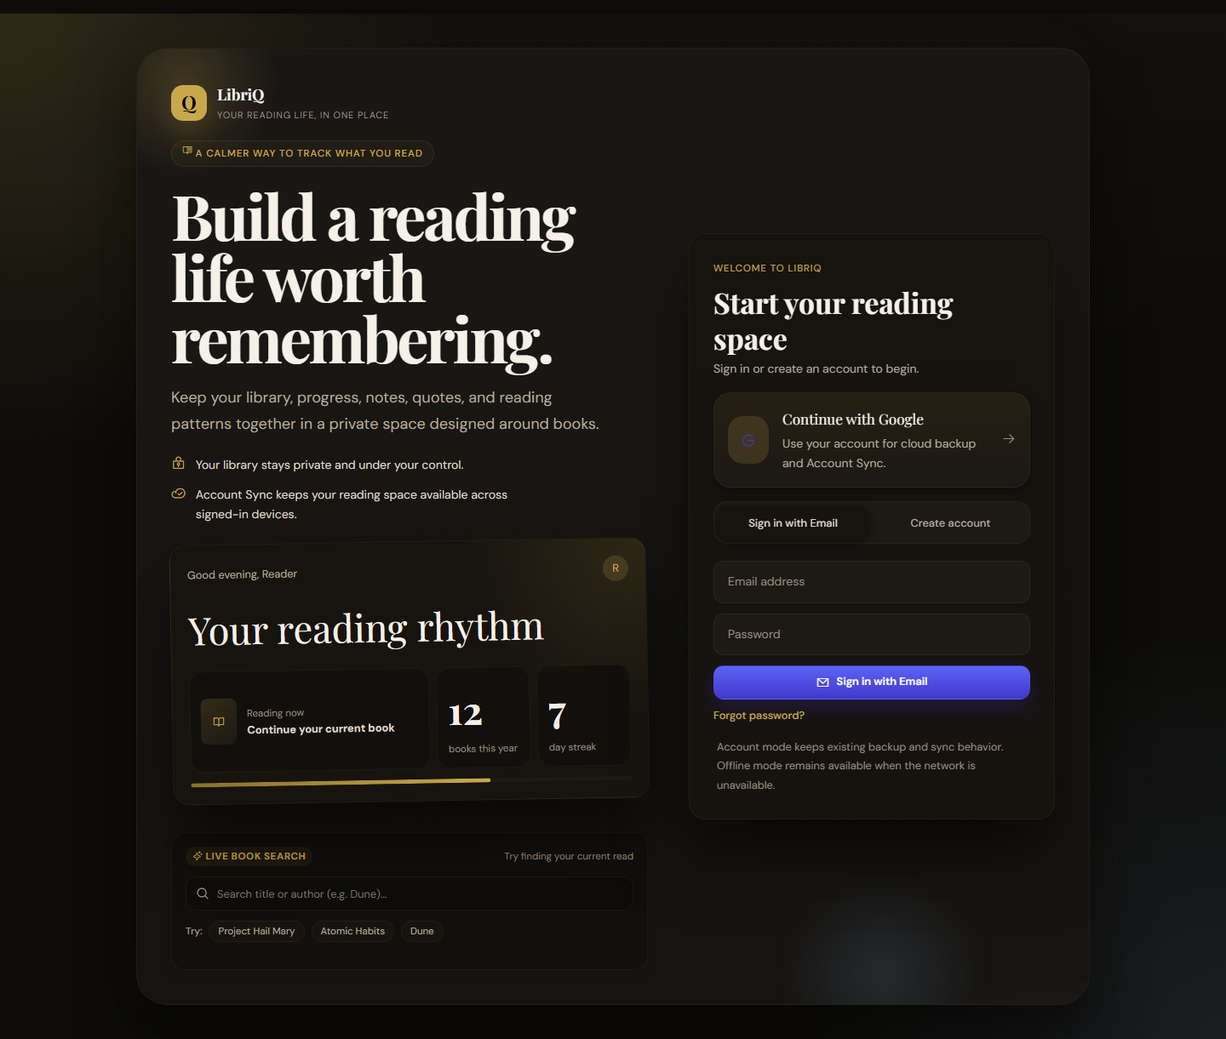
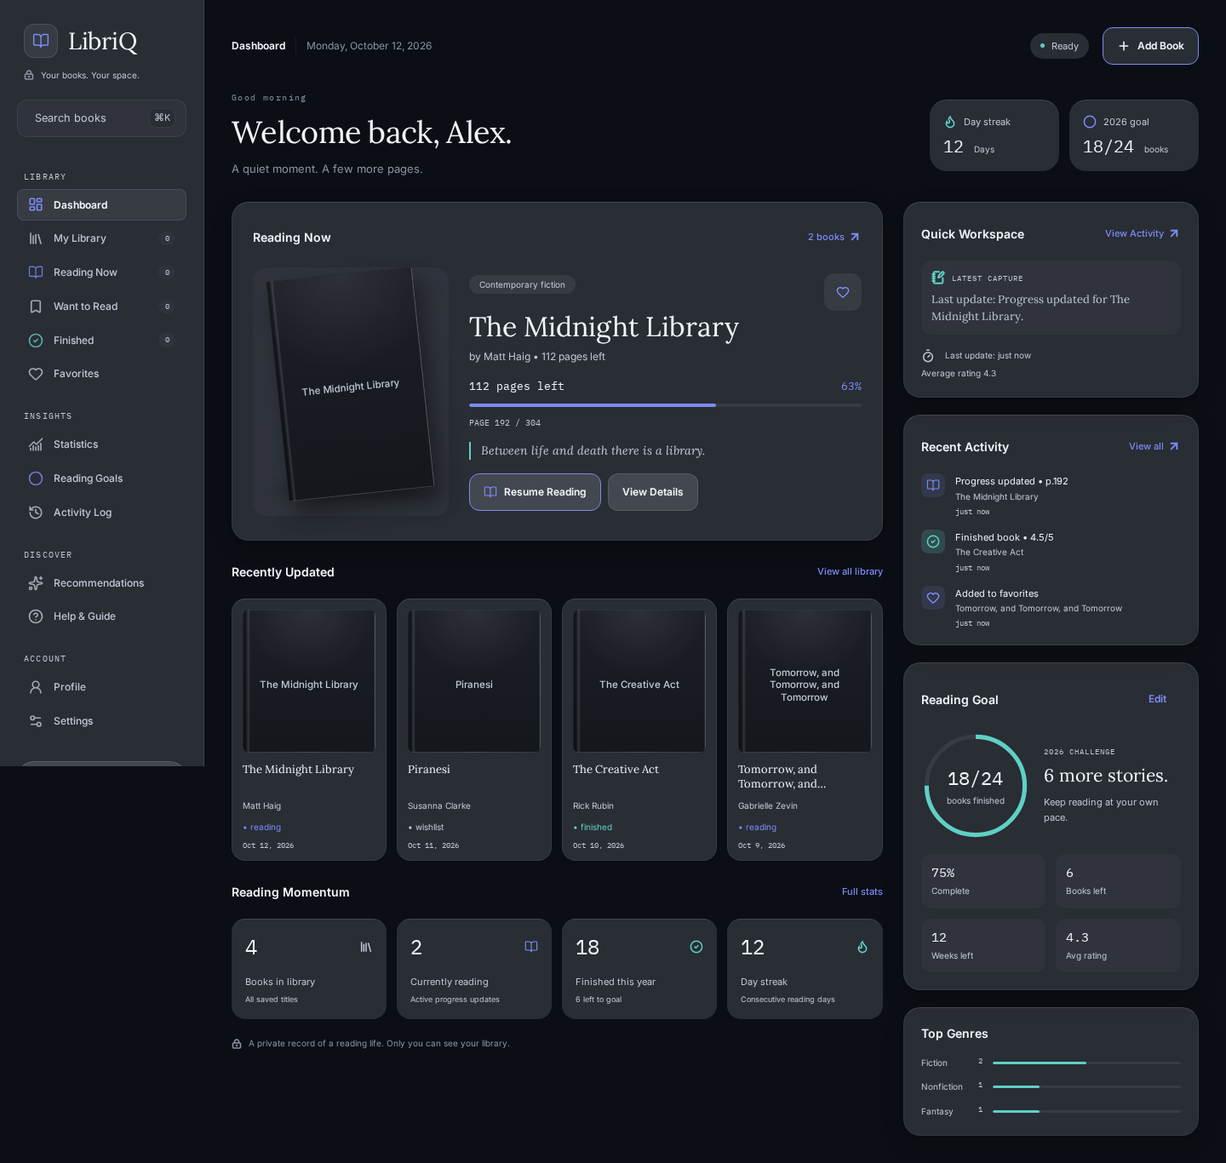
Preserve shared layouts and verify Dashboard accessibility

diff --git a/frontend/css/features/dashboard.css b/frontend/css/features/dashboard.css
@@ -19,13 +19,27 @@
 .dashboard-actions { gap: 16px; }
 .dashboard-sync { gap: 8px; padding: 6px 12px; border-radius: var(--radius-full); background: var(--glass-fill-3); font-size: 11px; }
 .dashboard-sync-dot { width: 5px; height: 5px; background: var(--teal); border-radius: 50%; }
-.dashboard-page .btn { min-height: 44px; border-radius: 12px; padding: 10px 16px; font-size: 12px; font-weight: 600; box-shadow: none; }
-.dashboard-page .btn-primary { background: var(--glass-fill-3); border: 1px solid var(--indigo); color: var(--text-strong); }
-.dashboard-page .btn-primary:hover { background: var(--indigo-18); }
-.dashboard-page .btn-secondary { background: var(--glass-fill-3); border: 1px solid var(--glass-highlight); color: var(--text-strong); }
-.dashboard-page .btn-ghost { color: var(--indigo); }
+#dashboardPage .btn { min-height: 44px; border-radius: 12px; padding: 10px 16px; font-size: 12px; font-weight: 600; box-shadow: none; }
+#dashboardPage .btn-primary { background: var(--glass-fill-3); border: 1px solid var(--indigo); color: var(--text-strong); }
+#dashboardPage .btn-primary:hover { background: var(--indigo-18); }
+#dashboardPage .btn-secondary { background: var(--glass-fill-3); border: 1px solid var(--glass-highlight); color: var(--text-strong); }
+#dashboardPage .btn-ghost { color: var(--indigo); }
 .dashboard-page button:focus-visible { outline: 2px solid var(--indigo); outline-offset: 3px; }
-.dashboard-icon { width: 16px; height: 16px; flex-shrink: 0; object-fit: contain; }
+.dashboard-icon { display: inline-block; width: 16px; height: 16px; flex-shrink: 0; background: currentColor; -webkit-mask: var(--dashboard-icon) center / contain no-repeat; mask: var(--dashboard-icon) center / contain no-repeat; }
+.dashboard-icon[data-icon="plus"] { --dashboard-icon: url('../../assets/dashboard/desktop-plus.svg'); }
+.dashboard-icon[data-icon="arrow-up-right"] { --dashboard-icon: url('../../assets/dashboard/desktop-arrow-up-right.svg'); }
+.dashboard-icon[data-icon="book-open"] { --dashboard-icon: url('../../assets/dashboard/desktop-book-open.svg'); }
+.dashboard-icon[data-icon="circle-check"] { --dashboard-icon: url('../../assets/dashboard/desktop-circle-check.svg'); }
+.dashboard-icon[data-icon="flame"] { --dashboard-icon: url('../../assets/dashboard/desktop-flame.svg'); }
+.dashboard-icon[data-icon="heart"] { --dashboard-icon: url('../../assets/dashboard/desktop-heart.svg'); }
+.dashboard-icon[data-icon="library"] { --dashboard-icon: url('../../assets/dashboard/desktop-library.svg'); }
+.dashboard-icon[data-icon="lock-keyhole"] { --dashboard-icon: url('../../assets/dashboard/desktop-lock-keyhole.svg'); }
+.dashboard-icon[data-icon="notebook-pen"] { --dashboard-icon: url('../../assets/dashboard/desktop-notebook-pen.svg'); }
+.dashboard-icon[data-icon="target"] { --dashboard-icon: url('../../assets/dashboard/desktop-target.svg'); }
+.dashboard-icon[data-icon="timer"] { --dashboard-icon: url('../../assets/dashboard/desktop-timer.svg'); }
+.dashboard-icon[data-icon="bookmark"] { --dashboard-icon: url('../../assets/dashboard/desktop-bookmark.svg'); }
+.dashboard-icon[data-icon="book-open"], .dashboard-icon[data-icon="target"], .dashboard-icon[data-icon="heart"] { color: var(--indigo); }
+.dashboard-icon[data-icon="flame"], .dashboard-icon[data-icon="circle-check"], .dashboard-icon[data-icon="notebook-pen"] { color: var(--teal); }
 .dashboard-hero-shell { justify-content: space-between; gap: 24px; margin-bottom: 28px; }
 .greeting-label { display: block; color: var(--text-muted); font: 10px var(--font-mono); letter-spacing: 1.4px; margin-bottom: 12px; }
 .greeting-title { margin: 0; font: 400 36px/1.25 var(--font-serif); letter-spacing: -0.7px; color: var(--text-strong); overflow-wrap: anywhere; }
@@ -73,6 +87,7 @@
 .dashboard-hero-quote { margin: 0 0 16px; padding-left: 12px; border-left: 2px solid var(--teal); color: var(--text-body); font: italic 14px/1.5 var(--font-serif); overflow-wrap: anywhere; }
 .dashboard-hero-actions { gap: 8px; flex-wrap: wrap; }
 .dashboard-hero-actions [data-action="toggle-favorite"] { position: absolute; right: 0; top: 0; padding: 8px; min-height: 32px; width: 32px; background: var(--glass-fill-2); border-radius: 8px; }
+.dashboard-hero-actions [data-action="toggle-favorite"][aria-pressed="true"] { background: var(--indigo-18); }
 .dashboard-empty-cover { border: 1px dashed var(--glass-highlight); }
 .dashboard-empty-cover .dashboard-icon { width: 48px; height: 48px; }
 .dashboard-recent-panel, .dashboard-compact-panel { padding: 0; border: 0; border-radius: 0; background: none; box-shadow: none; -webkit-backdrop-filter: none; backdrop-filter: none; }
@@ -101,7 +116,8 @@
 .dashboard-quick-meta span { display: flex; align-items: center; gap: 12px; }
 .dashboard-activity-list { display: flex; flex-direction: column; gap: 16px; }
 .dashboard-page .activity-item { display: flex; gap: 12px; padding: 0; border: 0; align-items: flex-start; }
-.dashboard-page .activity-icon { width: 28px; height: 28px; border-radius: 8px; display: flex; align-items: center; justify-content: center; flex-shrink: 0; }
+.dashboard-page .activity-icon { width: 28px; height: 28px; border-radius: 8px; display: flex; align-items: center; justify-content: center; flex-shrink: 0; background: var(--indigo-12); color: var(--indigo); }
+.dashboard-page .activity-icon[data-icon="circle-check"], .dashboard-page .activity-icon[data-icon="notebook-pen"] { background: var(--color-success-dim); }
 .dashboard-page .activity-icon i { font-size: 15px; }
 .dashboard-page .activity-text { min-width: 0; }
 .dashboard-page .activity-title { font-size: 11px; color: var(--text-strong); overflow-wrap: anywhere; }
@@ -121,11 +137,11 @@
 .dashboard-goal-copy h3 { margin: 10px 0; font: 400 21px/1.2 var(--font-serif); color: var(--text-strong); }
 .dashboard-goal-copy p { margin: 0; font-size: 11px; color: var(--text-body); }
 .dashboard-page .goal-stats { grid-column: 1 / -1; display: grid; grid-template-columns: repeat(2, minmax(0, 1fr)); gap: 12px; }
-.dashboard-page .goal-stat { padding: 12px; background: var(--glass-fill-1); border-radius: 12px; }
+#dashboardPage .goal-stat { padding: 12px; min-height: 0; background: var(--glass-fill-1); border-radius: 12px; }
 .dashboard-page .goal-stat-value { font: 15px var(--font-mono); color: var(--text-strong); }
 .dashboard-page .goal-stat-label { margin-top: 4px; font-size: 10px; color: var(--text-body); }
-.dashboard-page .genre-list { display: flex; flex-direction: column; gap: 12px; }
-.dashboard-page .genre-row { display: grid; grid-template-columns: 72px minmax(0, 1fr); align-items: center; gap: 12px; }
+#dashboardPage .genre-list { display: flex; flex-direction: column; gap: 12px; }
+#dashboardPage .genre-row { display: grid; padding: 0; grid-template-columns: 72px minmax(0, 1fr); align-items: center; gap: 12px; }
 .dashboard-page .genre-info { display: flex; justify-content: space-between; gap: 4px; font-size: 10px; color: var(--text-body); }
 .dashboard-page .genre-count { font: 9px var(--font-mono); }
 .dashboard-page .genre-row .progress-bar { height: 3px; }
@@ -150,6 +166,17 @@
 .onboarding-step-content { flex: 1; min-width: 0; font-size: 12px; }
 .onboarding-step-content strong { color: var(--text-strong); }
 .onboarding-step-content p { margin: 4px 0 0; font-size: 11px; }
+#dashboardPage .activity-list { gap: 16px; }
+#dashboardPage .activity-item { padding: 0; }
+.dashboard-privacy-main { margin-top: 0; }
+.dashboard-privacy-mobile { display: none; }
+[data-theme="light"] .dashboard-page .greeting-label,
+[data-theme="light"] .dashboard-page .greeting-subtitle,
+[data-theme="light"] .dashboard-page .dashboard-page-context time,
+[data-theme="light"] .dashboard-page .dashboard-privacy,
+[data-theme="light"] .dashboard-page .dashboard-recent-status[data-status="finished"],
+[data-theme="light"] .dashboard-page .onboarding-pill { color: var(--text-body); }
+[data-theme="light"] .dashboard-recent-status[data-status="finished"]::before { color: var(--teal); }
 
 @media (min-width: 769px) and (max-width: 1199px) {
   .dashboard-page { padding: 24px; }
@@ -192,6 +219,8 @@
   .dashboard-compact-card { padding: 16px; min-height: 100px; }
   .dashboard-goal-ring { grid-template-columns: 128px minmax(0, 1fr); gap: 16px; }
   .dashboard-privacy { justify-content: center; font-size: 9px; }
+  .dashboard-privacy-main { display: none; }
+  .dashboard-privacy-mobile { display: flex; }
   .onboarding-step { flex-wrap: wrap; }
   .onboarding-step .btn { margin-left: 36px; }
 }

diff --git a/frontend/css/features/insights.css b/frontend/css/features/insights.css
@@ -1,4 +1,58 @@
-#statsPage {
+/* Legacy shared structures belong to deferred pages, not the redesigned Dashboard. */
+:where(.page:not(.dashboard-page)) .stats-row { display: grid; grid-template-columns: repeat(4, minmax(0, 1fr)); gap: var(--space-4); margin-bottom: var(--space-8); }
+:where(.page:not(.dashboard-page)) .stat-card { display: flex; flex-direction: column; justify-content: space-between; min-height: 160px; gap: var(--space-3); padding: var(--space-5); background: var(--bg-surface); border: 1px solid var(--border-subtle); border-radius: var(--radius-lg); }
+:where(.page:not(.dashboard-page)) .stat-card-icon { width: 40px; height: 40px; border-radius: var(--radius-md); display: flex; align-items: center; justify-content: center; font-size: 1.15rem; margin-bottom: var(--space-2); }
+:where(.page:not(.dashboard-page)) .stat-card-value { font: var(--weight-bold) var(--t-stat)/1 var(--font-serif); color: var(--text-strong); }
+:where(.page:not(.dashboard-page)) .stat-card-label { font-size: var(--text-xs); color: var(--text-dim); }
+:where(.page:not(.dashboard-page)) .dashboard-grid { display: grid; grid-template-columns: minmax(0, 1fr) 360px; gap: var(--space-5); align-items: start; }
+:where(.page:not(.dashboard-page)) .section-header,
+:where(.page:not(.dashboard-page)) .goal-header { display: flex; align-items: flex-start; justify-content: space-between; gap: var(--space-4); margin-bottom: var(--space-4); }
+:where(.page:not(.dashboard-page)) .section-title,
+:where(.page:not(.dashboard-page)) .goal-title { font: var(--weight-semi) var(--t-card)/var(--leading-snug) var(--font-serif); color: var(--text-strong); }
+:where(.page:not(.dashboard-page)) .goal-widget { padding: var(--space-5); background: var(--bg-surface); border: 1px solid var(--border-subtle); border-radius: var(--radius-lg); box-shadow: var(--shadow-sm); }
+:where(.page:not(.dashboard-page)) .goal-year { margin-top: 2px; color: var(--text-dim); font-size: var(--text-xs); }
+:where(.page:not(.dashboard-page)) .goal-progress-ring { display: flex; flex-direction: column; align-items: center; gap: var(--space-5); }
+:where(.page:not(.dashboard-page)) .goal-ring-wrap { position: relative; width: 132px; height: 132px; }
+:where(.page:not(.dashboard-page)) .goal-ring-svg { width: 132px; height: 132px; transform: rotate(-90deg); }
+:where(.page:not(.dashboard-page)) .goal-ring-bg { fill: none; stroke: rgba(255,255,255,0.06); stroke-width: 8; }
+:where(.page:not(.dashboard-page)) .goal-ring-fill { fill: none; stroke: var(--accent); stroke-width: 8; stroke-linecap: round; stroke-dasharray: 283; stroke-dashoffset: 283; transition: stroke-dashoffset 1s var(--ease-out); }
+:where(.page:not(.dashboard-page)) .goal-ring-fill.complete { stroke: var(--teal); }
+:where(.page:not(.dashboard-page)) .goal-ring-text { position: absolute; inset: 0; display: flex; flex-direction: column; align-items: center; justify-content: center; }
+:where(.page:not(.dashboard-page)) .goal-ring-value { font: var(--weight-bold) var(--t-stat)/1 var(--font-serif); color: var(--text-strong); }
+:where(.page:not(.dashboard-page)) .goal-ring-total { margin-top: 2px; color: var(--text-dim); font-size: var(--text-xs); }
+:where(.page:not(.dashboard-page)) .goal-stats { display: grid; grid-template-columns: repeat(2, minmax(0, 1fr)); gap: var(--space-3); width: 100%; }
+:where(.page:not(.dashboard-page)) .goal-stat { padding: var(--space-3); border: 1px solid var(--border-soft); border-radius: var(--radius-md); background: var(--bg-elevated); text-align: center; }
+:where(.page:not(.dashboard-page)) .goal-stat-value { font: var(--weight-bold) var(--text-md)/1 var(--font-serif); color: var(--text-strong); }
+:where(.page:not(.dashboard-page)) .goal-stat-label { margin-top: var(--space-1); color: var(--text-dim); font-size: var(--text-xs); }
+:where(.page:not(.dashboard-page)) .activity-list,
+:where(.page:not(.dashboard-page)) .genre-list { display: flex; flex-direction: column; gap: var(--space-2); }
+:where(.page:not(.dashboard-page)) .activity-item { display: flex; align-items: center; gap: var(--space-3); min-width: 0; padding: var(--space-3); border: 1px solid transparent; border-radius: var(--radius-md); background: transparent; }
+:where(.page:not(.dashboard-page)) .activity-icon { width: 34px; height: 34px; border-radius: var(--radius-md); display: flex; align-items: center; justify-content: center; flex-shrink: 0; }
+:where(.page:not(.dashboard-page)) .activity-text { min-width: 0; flex: 1; }
+:where(.page:not(.dashboard-page)) .activity-title { color: var(--text-primary); font-size: var(--text-sm); font-weight: var(--weight-medium); white-space: nowrap; overflow: hidden; text-overflow: ellipsis; }
+:where(.page:not(.dashboard-page)) .activity-subtitle { color: var(--text-dim); font-size: var(--text-xs); }
+:where(.page:not(.dashboard-page)) .activity-time { flex-shrink: 0; color: var(--text-dim); font-size: var(--text-xs); font-family: var(--font-mono); }
+:where(.page:not(.dashboard-page)) .genre-row { display: flex; flex-direction: column; gap: var(--space-2); }
+:where(.page:not(.dashboard-page)) .genre-info { display: flex; align-items: center; justify-content: space-between; gap: var(--space-3); }
+:where(.page:not(.dashboard-page)) .genre-name { color: var(--text-body); font-size: var(--text-sm); font-weight: var(--weight-medium); }
+:where(.page:not(.dashboard-page)) .genre-count { color: var(--text-dim); font-size: var(--text-xs); font-family: var(--font-mono); }
+.monthly-chart { display: flex; align-items: flex-end; justify-content: space-between; gap: var(--space-2); height: 120px; padding: var(--space-4) 0 var(--space-3); border-bottom: 1px solid var(--border-divider); }
+.chart-bar-wrap { flex: 1; min-width: 0; height: 100%; display: flex; flex-direction: column; align-items: center; justify-content: flex-end; gap: var(--space-2); }
+.chart-bar { width: min(100%, 18px); min-height: 4px; border: 1px solid var(--accent-dim); border-bottom: none; border-radius: var(--radius-sm) var(--radius-sm) 0 0; background: var(--accent-dim); transition: background var(--duration-fast) var(--ease-out), border-color var(--duration-fast) var(--ease-out), height 0.6s var(--ease-out); }
+.chart-bar.current, .chart-bar:hover { background: var(--accent); border-color: var(--accent-hover); }
+.chart-bar-label { color: var(--text-dim); font-size: 0.65rem; line-height: 1; font-family: var(--font-mono); }
+@media (max-width: 1100px) {
+  :where(.page:not(.dashboard-page)) .dashboard-grid { grid-template-columns: 1fr; }
+}
+@media (max-width: 520px) {
+  .monthly-chart { gap: 4px; overflow-x: auto; padding-bottom: var(--space-4); }
+  .chart-bar-wrap { min-width: 22px; }
+}
+@media (prefers-reduced-motion: reduce) {
+  .chart-bar, .goal-ring-fill { transition-duration: 0.01ms !important; }
+}
+
+#statsPage {
   max-width: 1180px;
 }
 

diff --git a/frontend/js/dashboard.js b/frontend/js/dashboard.js
@@ -44,7 +44,9 @@ export const Dashboard = {
                 ? 'Sync on'
                 : 'Ready';
 
-    const hour = new Date().getHours();
+    const now = new Date();
+    const localDate = [now.getFullYear(), String(now.getMonth() + 1).padStart(2, '0'), String(now.getDate()).padStart(2, '0')].join('-');
+    const hour = now.getHours();
     const greeting = hour < 12 ? 'Good morning' : hour < 17 ? 'Good afternoon' : 'Good evening';
     const goalPct = goals.yearly > 0 ? Math.min(100, Math.round((stats.finishedThisYear / goals.yearly) * 100)) : 0;
     const ringOffset = Math.round(283 - (283 * goalPct / 100));
@@ -56,7 +58,7 @@ export const Dashboard = {
         <div class="dashboard-topbar">
           <div class="dashboard-page-context">
             <strong>Dashboard</strong>
-            <time datetime="${new Date().toISOString().slice(0, 10)}">${new Date().toLocaleDateString('en', { weekday: 'long', month: 'long', day: 'numeric', year: 'numeric' })}</time>
+            <time datetime="${localDate}">${now.toLocaleDateString('en', { weekday: 'long', month: 'long', day: 'numeric', year: 'numeric' })}</time>
           </div>
           <div class="dashboard-actions">
           <div class="dashboard-sync">
@@ -140,6 +142,7 @@ export const Dashboard = {
                 </div>
               </div>
             </section>
+            <p class="dashboard-privacy dashboard-privacy-main">${dashboardIcon('lock-keyhole')} A private record of a reading life. Only you can see your library.</p>
           </div>
 
           <aside class="dashboard-aside">
@@ -230,13 +233,13 @@ export const Dashboard = {
             }
           </aside>
         </div>
-        <p class="dashboard-privacy">${dashboardIcon('lock-keyhole')} A private record of a reading life. Only you can see your library.</p>
+        <p class="dashboard-privacy dashboard-privacy-mobile">${dashboardIcon('lock-keyhole')} A private record of a reading life. Only you can see your library.</p>
       </div>`;
   },
 };
 
 function dashboardIcon(name) {
-  return `<img class="dashboard-icon" src="./assets/dashboard/desktop-${name}.svg" alt="" aria-hidden="true" />`;
+  return `<span class="dashboard-icon" data-icon="${name}" aria-hidden="true"></span>`;
 }
 
 function pickFeaturedReadingBook(reading) {
@@ -279,7 +282,7 @@ function buildFeaturedReadingHero(book) {
           <button class="btn btn-secondary" type="button" data-action="show-book-details" data-book-id="${Utils.sanitize(book.id)}">
             View Details
           </button>
-          <button class="btn btn-ghost btn-sm" type="button" data-action="toggle-favorite" data-book-id="${Utils.sanitize(book.id)}" aria-label="${book.isFavorite ? 'Remove from favorites' : 'Add to favorites'}">
+          <button class="btn btn-ghost btn-sm" type="button" data-action="toggle-favorite" data-book-id="${Utils.sanitize(book.id)}" aria-pressed="${Boolean(book.isFavorite)}" aria-label="${book.isFavorite ? 'Remove from favorites' : 'Add to favorites'}">
             ${dashboardIcon('heart')}
           </button>
         </div>
@@ -439,10 +442,14 @@ function buildActivityItem(activity) {
     started: 'Started reading',
     added: 'Added to wishlist',
   };
+  const icon = {
+    'ph-book-open': 'book-open', 'ph-check-circle': 'circle-check', 'ph-heart': 'heart',
+    'ph-notebook': 'notebook-pen', 'ph-quote': 'notebook-pen', 'ph-bookmark': 'bookmark',
+  }[activity.icon] || 'plus';
   return `
     <div class="activity-item">
-      <div class="activity-icon" style="background:${activity.iconBg}; color:${activity.iconColor}">
-        <i class="ph ${activity.icon}"></i>
+      <div class="activity-icon" data-icon="${icon}">
+        ${dashboardIcon(icon)}
       </div>
       <div class="activity-text">
         <div class="activity-title">${Utils.sanitize(activity.label || labels[activity.type] || activity.subtitle || '')}${activity.payloadText ? ` • ${Utils.sanitize(activity.payloadText)}` : ''}</div>

diff --git a/frontend/css/sidebar.css b/frontend/css/sidebar.css
@@ -350,6 +350,7 @@
   padding: 28px 20px;
 }
 .sidebar-logo { gap: 12px; padding: 0 8px; margin-bottom: 12px; }
+.sidebar-nav { gap: 0; }
 .logo-mark { width: 40px; height: 40px; border-radius: 12px; background: var(--glass-fill-2); border-color: var(--glass-highlight); box-shadow: none; }
 .logo-icon { width: 20px; height: 20px; }
 .logo-text { font: 400 28px var(--font-serif); }
@@ -360,6 +361,8 @@
 .nav-item { border: 1px solid transparent; border-radius: 8px; color: var(--text-body); min-height: 36px; font-size: 12px; }
 .nav-item.active { background: var(--glass-fill-2); border-color: var(--indigo-22); color: var(--text-strong); }
 .nav-item.active i { color: var(--indigo); }
+.nav-item[data-page="reading"] i, .nav-item[data-page="goals"] i { color: var(--indigo); }
+.nav-item[data-page="finished"] i { color: var(--teal); }
 .nav-item:hover { background: var(--glass-fill-2); }
 .nav-badge, .nav-badge.reading, .nav-badge.success { background: var(--glass-fill-1); color: var(--text-body); font-size: 9px; border-radius: 8px; }
 .sidebar-streak { margin-top: 28px; padding: 16px; border-radius: 20px; background: var(--glass-fill-3); border-top-color: var(--glass-highlight); }
@@ -503,6 +506,12 @@
 }
 
 @media (max-width: 768px) {
+  .sidebar {
+    padding-top: calc(28px + env(safe-area-inset-top));
+    padding-bottom: calc(28px + env(safe-area-inset-bottom));
+    padding-left: calc(20px + env(safe-area-inset-left));
+    padding-right: calc(20px + env(safe-area-inset-right));
+  }
   .mobile-topbar {
     background: var(--glass-fill-3);
     border-bottom-color: var(--glass-highlight);

diff --git a/frontend/css/components/card.css b/frontend/css/components/card.css
@@ -11,9 +11,9 @@
 }
 
 .badge-reading  { background: var(--color-info-dim);    color: var(--status-reading);  }
-.badge-finished { background: var(--color-success-dim); color: var(--status-finished); }
-.badge-wishlist { background: var(--accent-dim);        color: var(--status-wishlist); }
-.badge-dnf      { background: var(--bg-overlay);       color: var(--status-dnf);      }
+.badge-finished { background: var(--color-success-dim); color: var(--status-finished-text); }
+.badge-wishlist { background: var(--accent-dim);        color: var(--status-wishlist-text); }
+.badge-dnf      { background: var(--bg-overlay);       color: var(--status-dnf-text);      }
 .badge-accent   { background: var(--accent-dim);        color: var(--text-accent);     }
 
 

diff --git a/frontend/css/tokens.css b/frontend/css/tokens.css
@@ -184,6 +184,9 @@
   --status-finished: var(--green);
   --status-wishlist: #8A94A6;
   --status-dnf: #5A6072;
+  --status-finished-text: var(--status-finished);
+  --status-wishlist-text: var(--status-wishlist);
+  --status-dnf-text: var(--text-body);
 
   --chart-1: var(--indigo);
   --chart-2: var(--teal);
@@ -286,6 +289,8 @@
   --status-finished: var(--green);
   --status-wishlist: #8A94A6;
   --status-dnf: #5A6072;
+  --status-finished-text: var(--text-body);
+  --status-wishlist-text: var(--text-body);
 
   --scrollbar-track: var(--surface-3);
   --scrollbar-thumb: #DCE1EC;

diff --git a/frontend/index.html b/frontend/index.html
@@ -22,8 +22,6 @@
     gtag('config', 'G-W5DQL4RTCF', { send_page_view: true });
   </script>
 
-  <link rel="preconnect" href="https://fonts.googleapis.com" />
-  <link rel="preconnect" href="https://fonts.gstatic.com" crossorigin />
   <link rel="stylesheet" href="./assets/fonts/fonts.css" />
 
   <script src="https://unpkg.com/@phosphor-icons/web@2.1.1/src/index.js" defer></script>

diff --git a/walkthrough.md b/walkthrough.md
@@ -1,0 +1,44 @@
+# Figma Dashboard implementation
+
+Source: [Figma](https://www.figma.com/design/O9xTL78FlhlC6KSVeZv8O2/Figma?node-id=0-1), desktop `3:4202`, mobile `3:4651`, empty `3:5010`, and light/reduced-transparency specification `3:5038`.
+
+## Coverage
+
+| Surface | Status |
+| --- | --- |
+| Dashboard desktop | Applied: Reading Now, recent books, momentum, workspace, activity, goal, genres |
+| Dashboard mobile | Applied: single column, compact header, fixed bottom navigation |
+| Dashboard empty state | Applied |
+| Dashboard light theme / opaque fallback | Applied |
+| Shared tokens / sidebar / bottom navigation | Applied |
+| PWA metadata / icons / local fonts | Applied |
+| Library, Statistics, Goals, Activity, Quotes, Recommendations, Settings, Profile, Help | Not redesigned; inherited tokens only |
+| Book Details modal, Kindle import, sign-in | Not redesigned |
+
+Preserved action delegation, navigation hubs, badge IDs, authentication requirements, and the reduced-motion guard. Compatibility aliases keep deferred screens resolving existing token names. Restored the Statistics grid, chart, and shared goal structures without redesigning that page.
+
+The screenshots use deterministic renderer fixtures with placeholder covers and sample library data, not an authenticated end-to-end session.
+
+## Desktop / mobile
+
+![Dark desktop Dashboard](docs/screenshots/dashboard-desktop.png)
+![Dark mobile Dashboard](docs/screenshots/dashboard-mobile.png)
+
+## Light / opaque / narrow
+
+![Light desktop Dashboard](docs/screenshots/dashboard-light.png)
+![Empty opaque mobile Dashboard](docs/screenshots/dashboard-empty-solid.png)
+![Light opaque mobile Dashboard](docs/screenshots/dashboard-light-solid.png)
+![320px narrow Dashboard](docs/screenshots/dashboard-narrow.png)
+
+## Verification
+
+- `npm test`: 38 tests passed.
+- All `scripts/test-*-modules.mjs` passed.
+- Dashboard, navigation, Statistics calculations/page, book identity/details, Goals, and Activity regressions passed.
+- `npm run test:render` and `npm run build` passed.
+- `npm run test:dashboard-design`: six responsive/theme states; no horizontal overflow, local fonts/assets, AA contrast assertions for Dashboard body/status text, and opaque zero-blur reduced-transparency surfaces.
+- Both Statistics monthly charts retained a flex/percentage-height layout and desktop/mobile grid behavior.
+- Dashboard calendar dates agree with the local day near midnight outside UTC.
+
+The environment proposal caches incremental npm dependencies and Playwright Chromium. Existing npm audit findings were not changed by this UI work.
